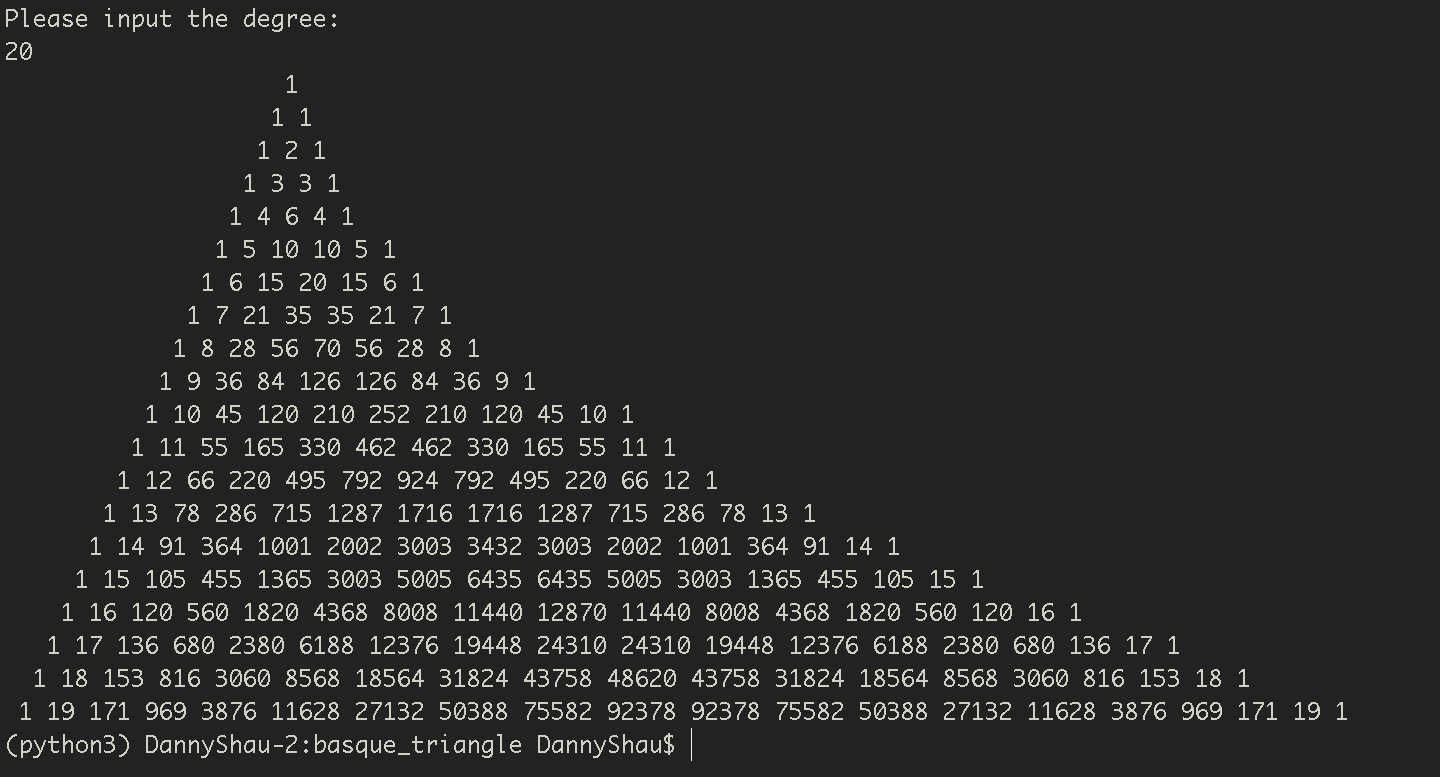
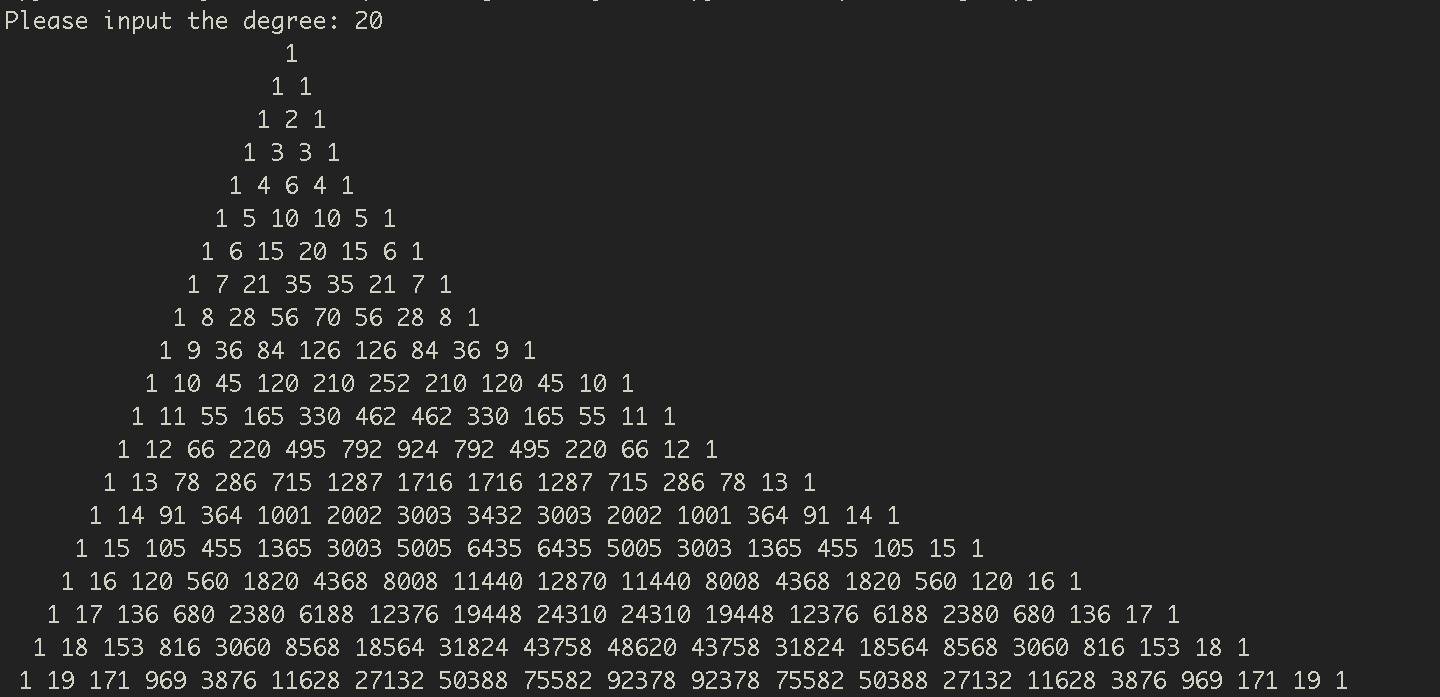
update

Changed region(s): [[0.0, 0.0904, 0.9375, 0.9943], [0.0938, 0.0, 0.25, 0.0603], [0.0, 0.0, 0.0625, 0.0904]]

diff --git a/basque_triangle/basque_triangle.py b/basque_triangle/basque_triangle.py
@@ -17,6 +17,6 @@ def main(N):
         print()
 
 
-N = input('Please input the degree:\n')        
+N = input('Please input the degree: ')        
 N = int(N)
 main(N)        
